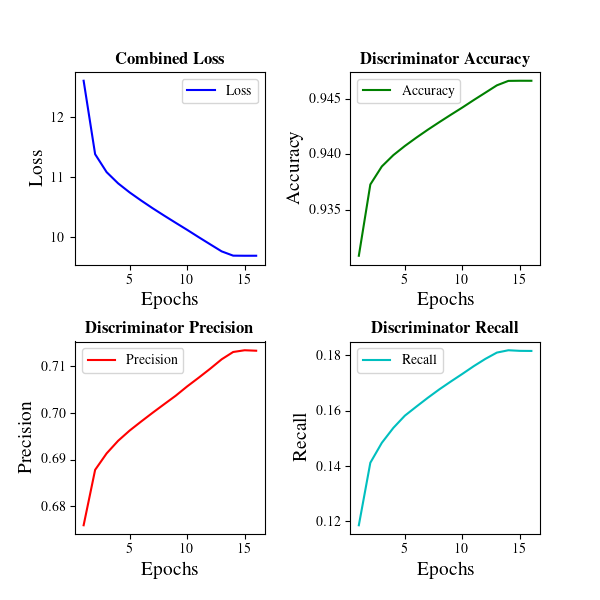
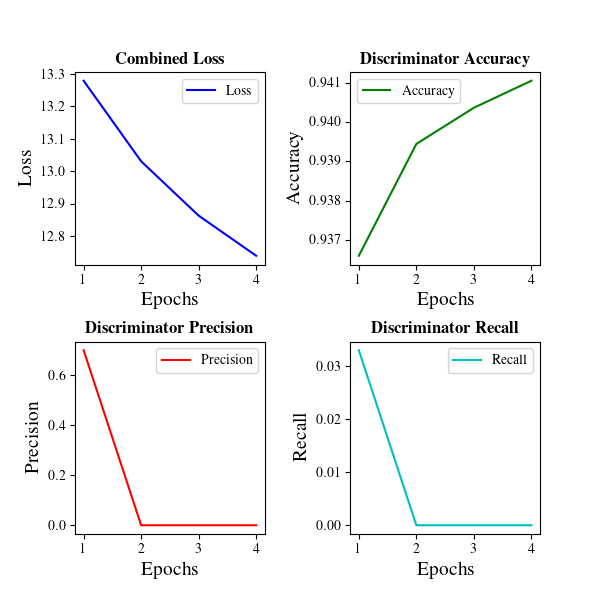
fix tuple problem

diff --git a/Code/src/build_checkpoints.py b/Code/src/build_checkpoints.py
@@ -50,7 +50,7 @@ def build_pretrained_from_checkpoint(model_size, device, checkpoint_directory, c
         electra_model, optimizer, scheduler, populated_loss_function, new_config = load_checkpoint(path_to_checkpoint, electra_model, optimizer, scheduler, device)
         config = update_settings(config, new_config, exceptions=["update_steps", "device"])
         loss_function.__dict__.update(populated_loss_function.__dict__)
-        print('Successfully copied loss function statistics:', loss_function.mid_epoch_stats)
+        print('Successfully copied loss function statistics:', loss_function.__dict__)
     else:
         print("\nTraining from scratch - no checkpoint provided.\n")
     return electra_model, optimizer, scheduler, electra_tokenizer, loss_function, config

diff --git a/Code/src/evaluation.py b/Code/src/evaluation.py
@@ -331,8 +331,8 @@ def evaluate_list(list_model, test_dataloader, tokenizer, training=False, datase
         # iterate over this prediction list until we reach the end, or we have enough predictions.
         for idx, ordered_pred_list in enumerate(zipped_predictions):  # zip each of the prediction lists found in here
             ordered_prob_list = zipped_probabilities[idx]
-            for pred in ordered_pred_list:
-                s_prob, e_prob = ordered_prob_list[idx]
+            for pred_idx, pred in ordered_pred_list:
+                s_prob, e_prob = ordered_prob_list[pred_idx]
 
                 # if our prediction does not meet the probability threshold
                 if s_prob < probability_threshold or e_prob < probability_threshold:

diff --git a/Code/src/loss_functions.py b/Code/src/loss_functions.py
@@ -58,7 +58,6 @@ class ELECTRALoss:
         self.discriminator_accuracy = []
         self.discriminator_precision = []
         self.discriminator_recall = []
-
         self.sigmoid_fc = nn.Sigmoid()
 
     def __call__(self, pred, targ_ids):
@@ -75,8 +74,6 @@ class ELECTRALoss:
 
         true_positives, false_positives, \
         true_negatives, false_negatives = confusion_matrix(disc_predictions, is_replaced.float())
-
-        print(confusion_matrix(disc_predictions, is_replaced.float()))
 
         gen_loss = self.generator_loss_function(mlm_gen_logits.float(), targ_ids[is_mlm_applied])
         disc_loss = self.discriminator_loss_function(disc_logits.float(), is_replaced.float())

diff --git a/Code/src/pre_training.py b/Code/src/pre_training.py
@@ -164,6 +164,9 @@ if __name__ == "__main__":
     electra_model, optimizer, scheduler, electra_tokenizer, loss_function,\
     config = build_pretrained_from_checkpoint(config['size'], config['device'], checkpoint_dir, checkpoint_name, config)
 
+    print(config)
+    raise Exception('jihubifuh')
+
     for param_group in optimizer.param_groups:
         print(param_group['lr'])
 

diff --git a/Code/src/visualise_pretraining.py b/Code/src/visualise_pretraining.py
@@ -190,7 +190,7 @@ def create_separate_plots(statistics, checkpoint_name):
 
 
 if __name__ == "__main__":
-    chckpt_name = "small_16_1417"  # e.g. small_10_50
+    chckpt_name = "base_4_14143"  # e.g. small_10_50
 
     if len(chckpt_name) == 0:
         raise ValueError("Checkpoint name must be the name of a valid checkpoint e.g. small_10_50")
